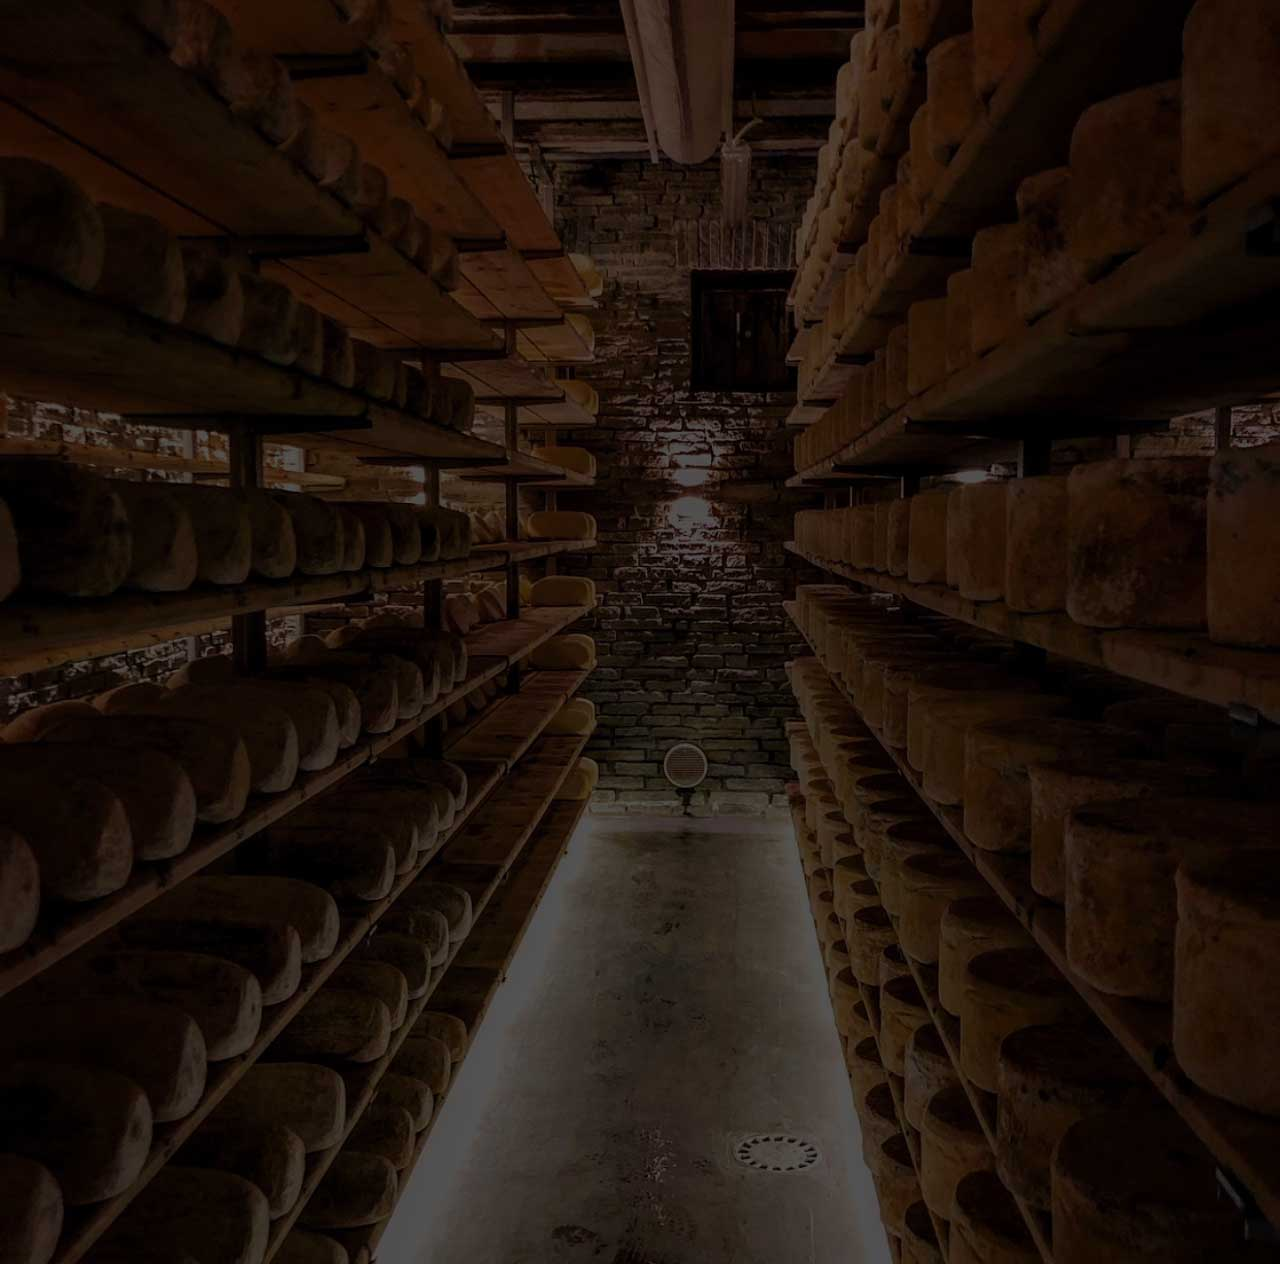
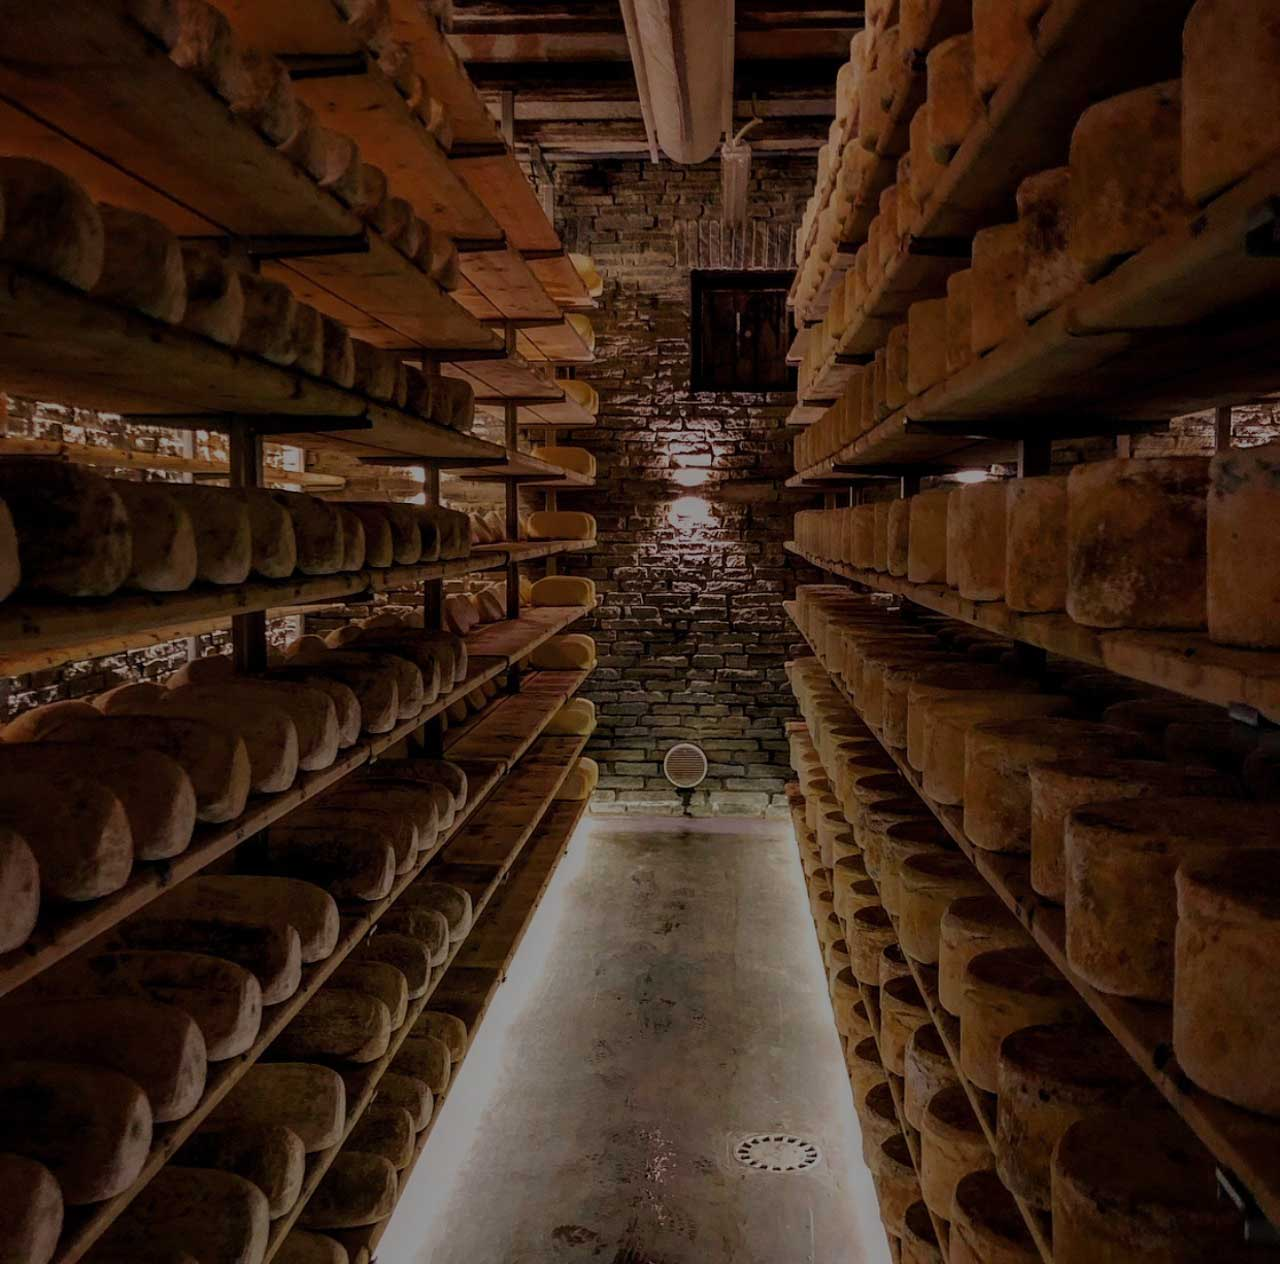
updated background for process page

diff --git a/styles/styles.css b/styles/styles.css
@@ -937,16 +937,9 @@ Process Page
 --------------------------------------------
 */
 .process-banner {
-  position: relative;
   text-align: center;
-  color: #B3CFF2;
+  color: #F2BE7E;
   font-size: 1em;
-}
-
-.process-banner-header {
-  position: absolute;
-  top: 200px;
-  text-transform: uppercase;
 }
 
 .process-banner-btn {
@@ -958,7 +951,9 @@ Process Page
 
 .process-button-1,
 .process-button-2 {
-  background-color: #B3CFF2;
+  font-family: "Josefin Sans", sans-serif;
+  text-transform: uppercase;
+  background-color: #F2BE7E;
   border: none;
   color: white;
   padding: 13px 25px;
@@ -1144,7 +1139,7 @@ PROCESS STYLES
   margin: 0;
   background-size: cover;
   background-color: none;
-  background-image: url("/images/process/process_background.jpg");
+  background-image: url("/images/process/cheese-cellar-1-final.jpg");
   background-repeat: no-repeat;
   background-attachment: fixed;
   background-position: center;

diff --git a/scss/components/_main.scss b/scss/components/_main.scss
@@ -148,29 +148,30 @@ Process Page
 */
 // Process Page Styling 
 .process-banner {
-    position: relative;
+  
     text-align: center;
-    color: $color1;
+    color: $color4;
     font-size: 1em;
 }
 
 .process-banner-header {
-    position: absolute;
-    top: 200px;
-    text-transform: uppercase;
+    
+    
 }
 
 .process-banner-btn {
     position: absolute;
     top: 200px;
-  
+
     transform: translate(0%, -20%);
 }
 
 // Process Buttons Styling
 .process-button-1, 
 .process-button-2  {
-    background-color: $color1;
+    font-family: $navFont;
+    text-transform: uppercase;
+    background-color: $color4;
     border: none;
     color: white;
     padding: 13px 25px;

diff --git a/scss/components/_images.scss b/scss/components/_images.scss
@@ -32,7 +32,7 @@ PROCESS STYLES
     margin: 0;
     background-size: cover;
     background-color: none;
-    background-image: url("/images/process/process_background.jpg");
+    background-image: url("/images/process/cheese-cellar-1-final.jpg");
     background-repeat: no-repeat;
     background-attachment: fixed;
     background-position: center;
